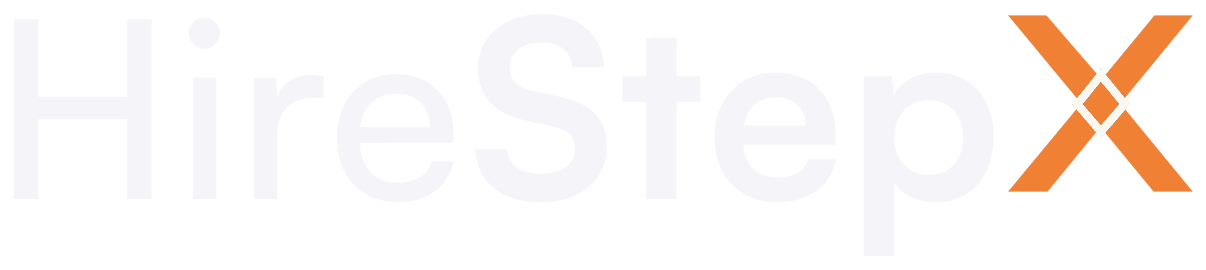
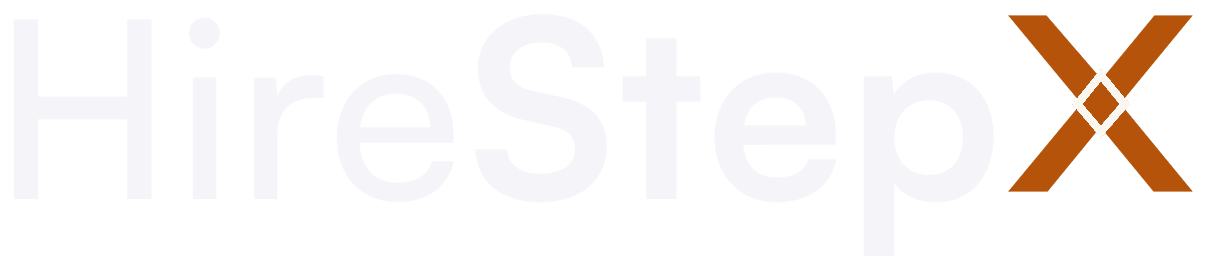
Make every wordmark X the brand copper
The root OG image used #e2552c and the dark-email wordmark used a lighter
orange; both now use #B45309 like the site, favicon and light email logo.

Changed region(s): [[0.8284, 0.0296, 1.0, 0.7111]]

diff --git a/app/opengraph-image.tsx b/app/opengraph-image.tsx
@@ -10,7 +10,7 @@ const INK = "#14131f";
 const INK_SOFT = "#4b4a5e";
 const WASH = "#f6f5fb";
 const LINE = "#e3e1f0";
-const ORANGE = "#e2552c";
+const ORANGE = "#B45309";
 
 const frame = { width: "100%", height: "100%", display: "flex", flexDirection: "column", justifyContent: "space-between", padding: "64px 80px", background: WASH, backgroundImage: "radial-gradient(ellipse 60% 60% at 90% 0%, rgba(47, 43, 119, 0.12) 0%, transparent 70%)" } as const;
 const row = { display: "flex", alignItems: "center" } as const;
